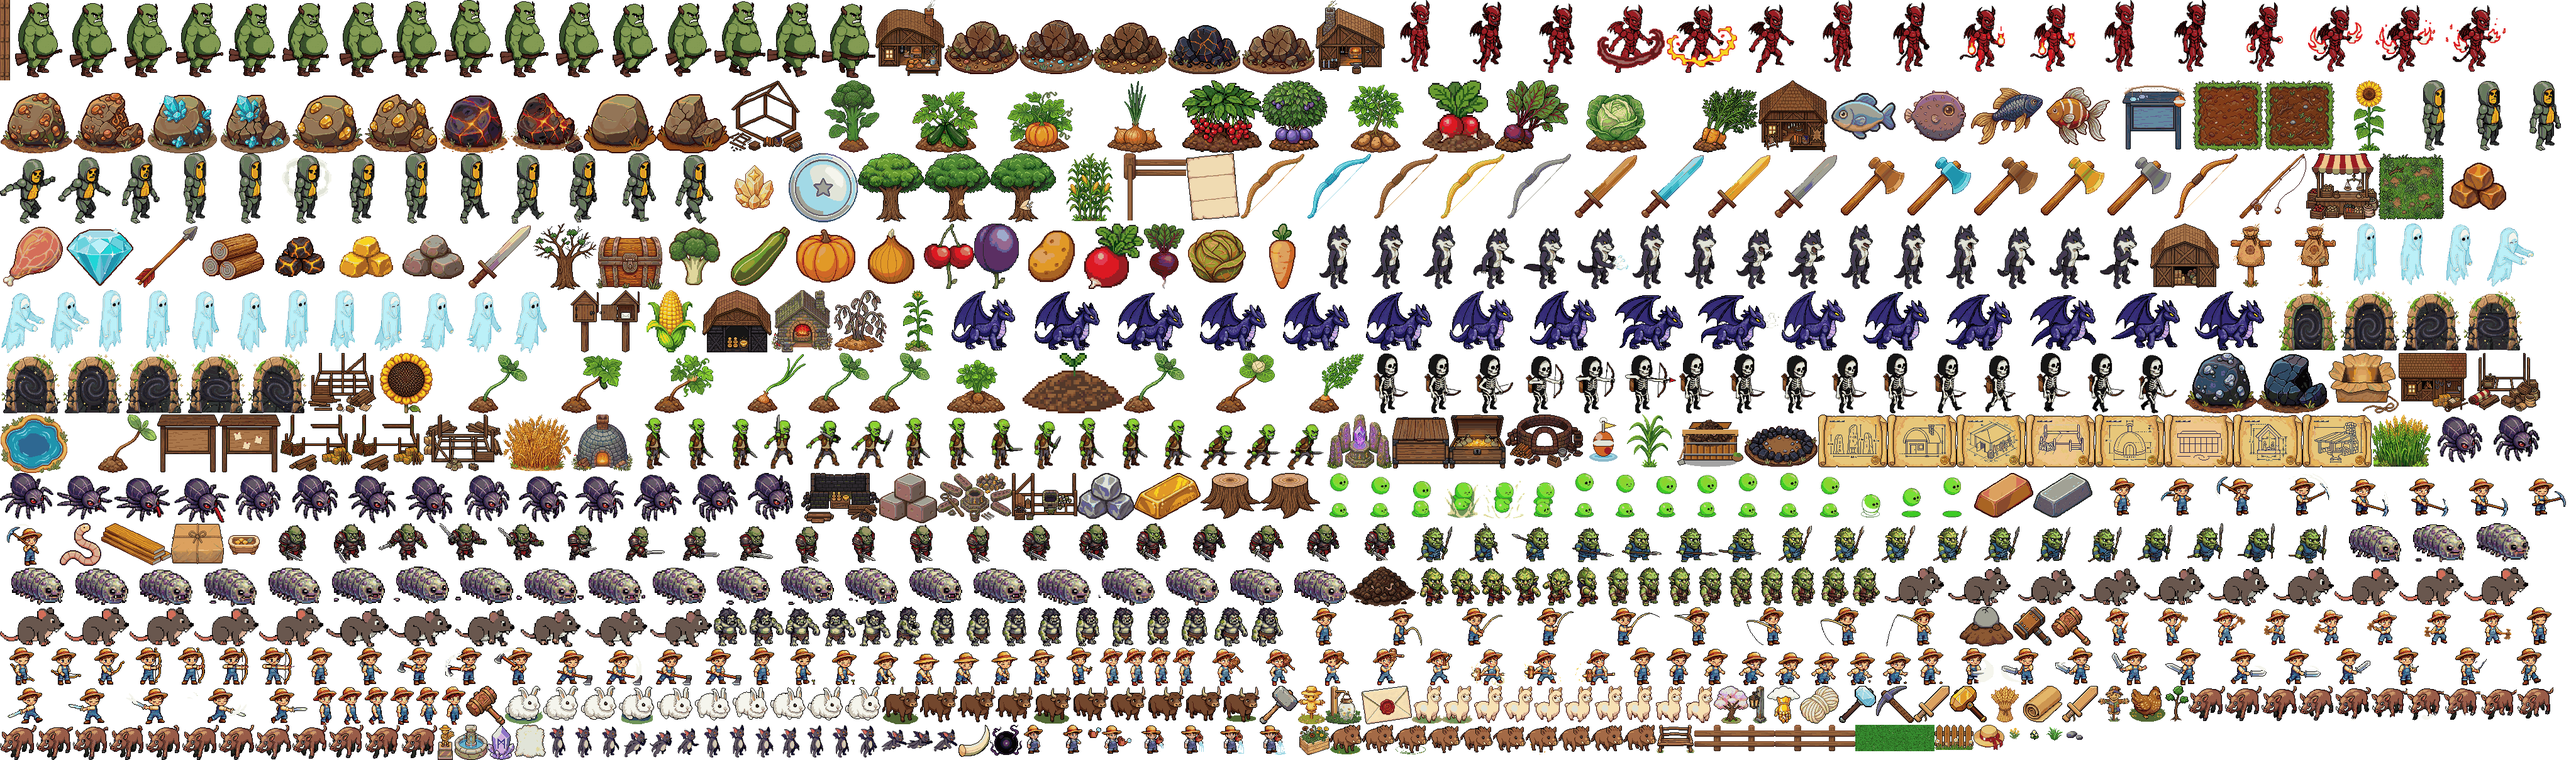
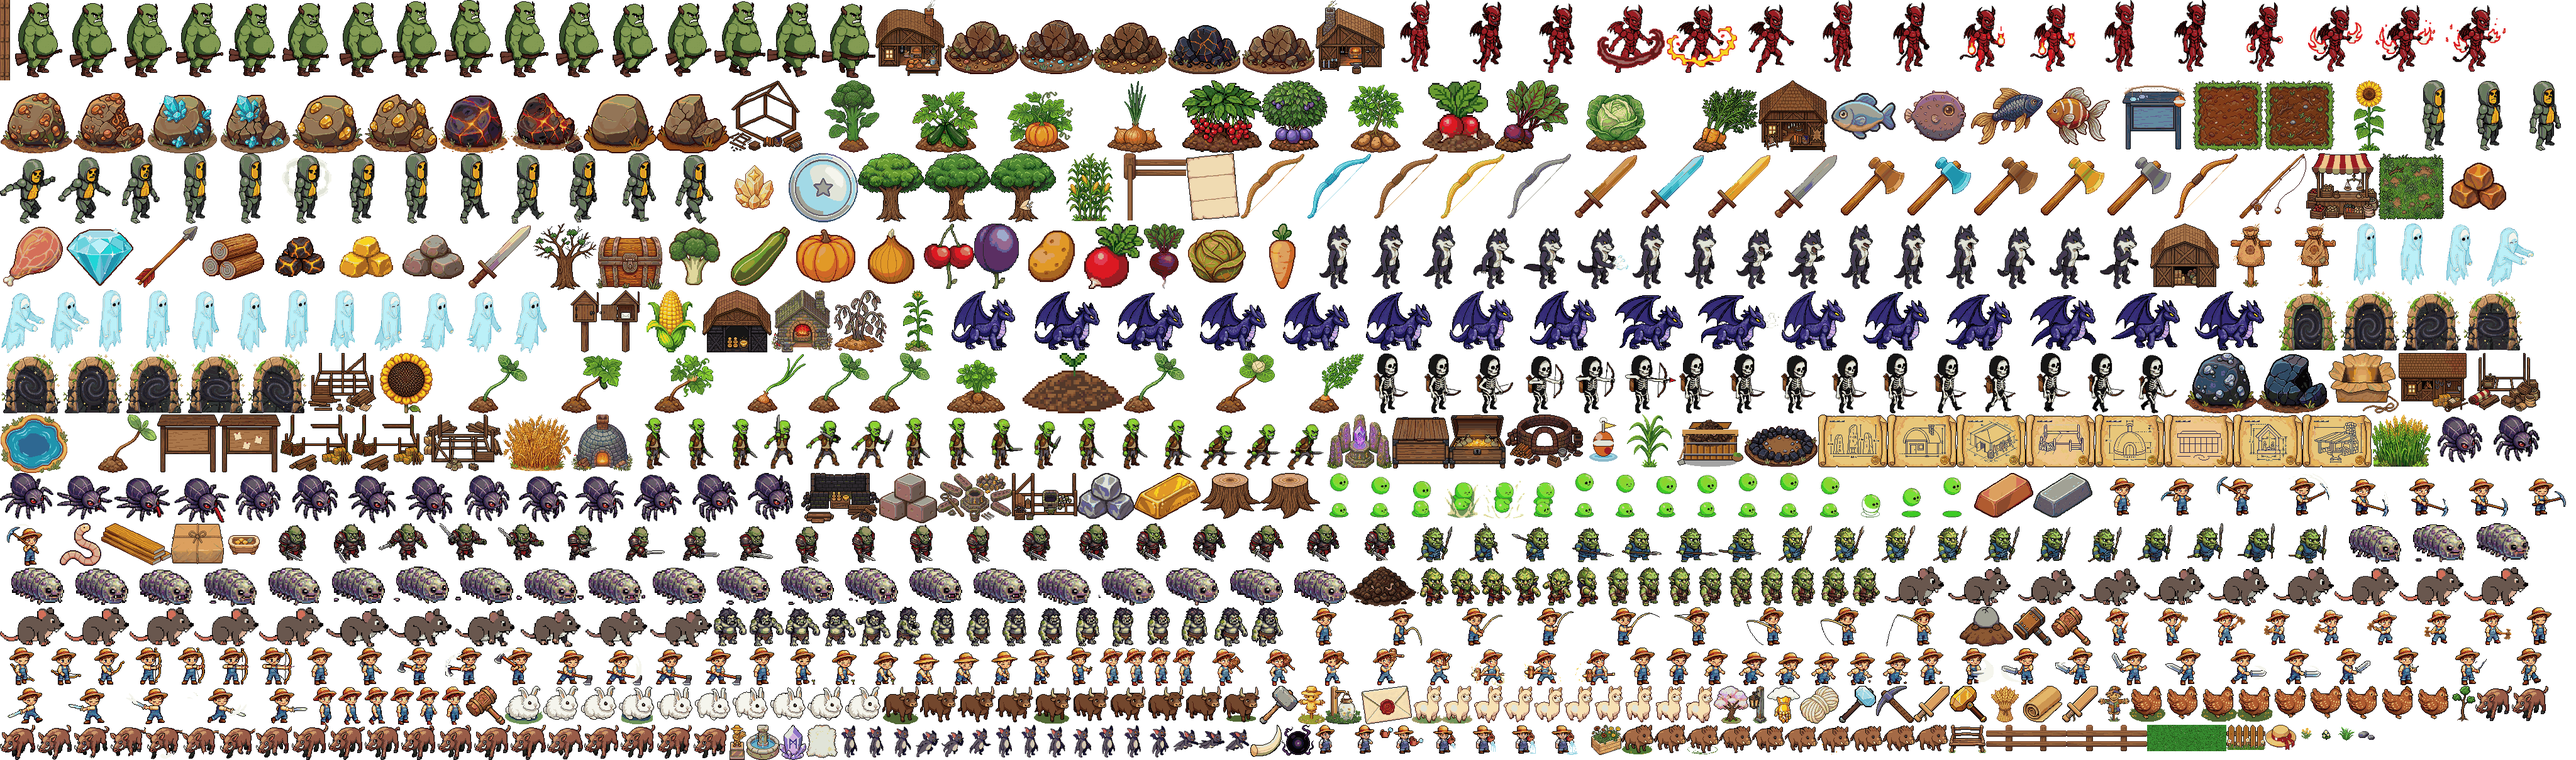
deploy lun 21/09/2026 15:39:23,93

Changed region(s): [[0.0, 0.8868, 1.0, 1.0]]

diff --git a/public/game/boot.js b/public/game/boot.js
@@ -142,14 +142,15 @@ class BootScene extends Phaser.Scene {
     // estado individual de hambre: pequeño comedero, no ligado a un cultivo concreto
     L.push(["animal_feed_marker", P + "animal_feed_marker.png?v=1"]);
     L.push(["pet_gallina", P + "pet_gallina.png"]);   // mascota "Pinta" del cofre de login (10/8)
+    for (let i = 0; i < 8; i++) L.push(["pet_gallina_walk_" + i, P + "pet_gallina_walk_" + i + ".png?v=1"]);
     return L;
   }
 
   preload() {
     // ATLAS: todos los sprites del mundo en 2 archivos (mucho más liviano para el server free).
     // Si el atlas no llega, ensureAll() baja los archivos sueltos como respaldo.
-    this.load.image("__atlas", "assets/atlas.png?v=53");
-    this.load.json("__atlasmap", "assets/atlas.json?v=53");
+    this.load.image("__atlas", "assets/atlas.png?v=54");
+    this.load.json("__atlasmap", "assets/atlas.json?v=54");
     // 2/9: la isla viaja en la PRIMERA pasada (es la única imagen que no cabe en el atlas:
     // 1190x854). Antes quedaba para los reintentos y era ella sola la que disparaba una
     // segunda vuelta de descarga en cada carga del juego.
@@ -289,6 +290,8 @@ class BootScene extends Phaser.Scene {
       const ks = Array.from({ length: 9 }, (_, i) => "animal_" + a + "_walk_" + i);
       if (has(ks)) this.anims.create({ key: "animal_" + a + "_walk", frames: ks.map(k => ({ key: k })), frameRate: 9, repeat: -1 });
     });
+    { const ks = Array.from({ length: 8 }, (_, i) => "pet_gallina_walk_" + i);
+      if (has(ks)) this.anims.create({ key: "pet_gallina_walk", frames: ks.map(k => ({ key: k })), frameRate: 10, repeat: -1 }); }
     // animaciones del orco y del troll (troll con idle de 4 frames)
     const mobs = { orc: [["idle", 3, 5, -1], ["walk", 6, 9, -1], ["atk", 6, 11, 0]],
                    troll: [["idle", 4, 4, -1], ["walk", 6, 8, -1], ["atk", 6, 10, 0]],

diff --git a/tools/test-carga-una-pasada.js b/tools/test-carga-una-pasada.js
@@ -62,6 +62,9 @@ console.log("\nLOS ANIMALES DEL ESTABLO CAMINAN");
   const cuadros = animales.flatMap(a => Array.from({ length: 9 }, (_, i) => "animal_" + a + "_walk_" + i));
   const faltan = cuadros.filter(k => !ATLAS[k]);
   ok("los 36 cuadros de caminata viajan en el atlas", faltan.length === 0, faltan.join(", "));
+  const pinta = Array.from({ length: 8 }, (_, i) => "pet_gallina_walk_" + i);
+  const faltanPinta = pinta.filter(k => !ATLAS[k]);
+  ok("los ocho cuadros de Pinta viajan en el atlas", faltanPinta.length === 0, faltanPinta.join(", "));
   const creadas = [];
   const bootDePrueba = Object.create(ctx.__B.prototype);
   bootDePrueba.textures = { exists: () => true };
@@ -69,9 +72,13 @@ console.log("\nLOS ANIMALES DEL ESTABLO CAMINAN");
   bootDePrueba.buildAnims();
   const anim = a => creadas.find(x => x.key === "animal_" + a + "_walk");
   ok("Boot crea una caminata de nueve cuadros por especie", animales.every(a => anim(a) && anim(a).frames.length === 9));
+  const animaPinta = creadas.find(x => x.key === "pet_gallina_walk");
+  ok("Boot crea la caminata limpia de ocho cuadros de Pinta", !!animaPinta && animaPinta.frames.length === 8);
   ok("la granja usa Sprite y alterna caminar / quieto", /this\.add\.sprite\(x, y, key\)/.test(FARM) &&
     /const aniCaminar = "animal_" \+ a\.k \+ "_walk";/.test(FARM) &&
     /a\.spr\.play\(aniCaminar\)/.test(FARM) && /a\.spr\.setTexture\("animal_" \+ a\.k\)/.test(FARM));
+  ok("Pinta también alterna caminar / quieta", /this\.add\.sprite\(pt\.x, pt\.y, def\.sprite\)/.test(FARM) &&
+    /m\.spr\.play\("pet_gallina_walk"\)/.test(FARM) && /m\.spr\.setTexture\("pet_gallina"\)/.test(FARM));
 }
 
 console.log("\nEL BESTIARIO TAMBIÉN (la fase «Cargando criaturas…» no pide nada)");

diff --git a/public/game/farm.js b/public/game/farm.js
@@ -3034,7 +3034,7 @@ class FarmScene extends Phaser.Scene {
     if (!def || this.mascota) return;
     if (!this.textures.exists(def.sprite)) return;   // todavía no cargó el arte: no pasa nada
     const pt = this.puntoAnimal() || { x: GF.ORIG_X + GF.WORLD_W / 2, y: GF.ORIG_Y + GF.WORLD_H / 2 };
-    const spr = this.add.image(pt.x, pt.y, def.sprite).setOrigin(0.5, 1);
+    const spr = this.add.sprite(pt.x, pt.y, def.sprite).setOrigin(0.5, 1);
     spr.setScale((GF.TILE * 0.52) / spr.width);       // más chica que los animales del Establo
     this.mascota = { k: quiero, spr, tx: pt.x, ty: pt.y, esperaHasta: 0, bob: Math.random() * 6.28 };
   }
@@ -3047,13 +3047,14 @@ class FarmScene extends Phaser.Scene {
     }
     const dx = m.tx - m.spr.x, dy = m.ty - m.spr.y, d = Math.hypot(dx, dy);
     if (d > 3) {
+      if (this.anims.exists("pet_gallina_walk") && (m.spr.anims.currentAnim?.key !== "pet_gallina_walk" || !m.spr.anims.isPlaying)) m.spr.play("pet_gallina_walk");
       const v = Math.min(d, 24 * dt);
       m.spr.x += dx / d * v; m.spr.y += dy / d * v;
       if (Math.abs(dx) > 1) m.spr.setFlipX(dx < 0);
       m.bob += dt * 9;
       const s = Math.abs(m.spr.scaleX);
       m.spr.setScale(m.spr.scaleX, s * (1 + Math.sin(m.bob) * 0.06));
-    }
+    } else if (m.spr.anims.isPlaying) { m.spr.anims.stop(); m.spr.setTexture("pet_gallina"); }
     m.spr.setDepth(m.spr.y);
   }
   tickAnimales(dt, t) {

diff --git a/public/index.html b/public/index.html
@@ -1924,7 +1924,7 @@
     // 15/8: VERSIÓN DE BUILD — rompe la caché del navegador en cada deploy (sin esto, el
     // jugador seguía corriendo el state.js viejo aunque el servidor tuviera el nuevo).
     // deploy.bat la actualiza sola (busca GF_BUILD y pone la fecha/hora del deploy).
-    const GF_BUILD = "20260921-153320";
+    const GF_BUILD = "20260921-153923";
     const files = ["game/config.js","game/nav.js","game/audio.js","game/state.js","game/save.js","game/ui.js","game/boot.js",
                    "game/farm.js","game/forest.js","game/plaza.js","game/main.js","game/update.js"];
     /* 24/8 — SE BAJAN TODOS A LA VEZ, SE EJECUTAN EN FILA (dirección: « sigue tardando en

diff --git a/tools/build-atlas.py b/tools/build-atlas.py
@@ -31,7 +31,7 @@ BOOT = os.path.join(RAIZ, "public", "game", "boot.js")
 
 # Los iconos de recursos, cultivos, peces y monedas también van al atlas: el juego los
 # usa para el "premio" que sale volando cuando talás, picás o cosechás.
-EXTRA = ["res_", "crop_", "cropm_", "cropg_", "fish_", "coin_", "animal_", "deco_", "build_", "plano_", "rock_buried", "hero_axe_", "hero_mace_"]   # build_: obras · plano_: blueprints (12/8) · ataques nuevos (21/9)
+EXTRA = ["res_", "crop_", "cropm_", "cropg_", "fish_", "coin_", "animal_", "pet_gallina_walk_", "deco_", "build_", "plano_", "rock_buried", "hero_axe_", "hero_mace_"]   # build_: obras · plano_: blueprints (12/8) · ataques nuevos (21/9)
 # 17/8: cropm_/cropg_ (planta a medias y crecida) SE HABÍAN QUEDADO AFUERA. "crop_" no los
 # atrapa, así que cada cultivo nuevo entraba con su icono al atlas pero sus dos etapas de
 # crecimiento se bajaban sueltas. Con 3 cultivos nuevos eran 6 pedidos extra + la fase de

diff --git a/TODO.md b/TODO.md
@@ -292,7 +292,7 @@ Están desarrolladas en el GDD §15.0, con sus números medidos. Aquí solo el t
 - [ ] **Árboles, piedras y parcelas**: siguen siendo el set viejo con el color calmado.
 - [x] **Piedra vs hierro**: veta de hierro fría, oscura y con estados propios; piedra queda cálida y redondeada.
 - [x] **Animaciones de ataque propias por arma**: espada y arco conservan las suyas; hacha y mazo suman ocho frames propios cada una.
-- [x] **Animales del Establo**: sprites reales en Establo y Álbum; alpaca, conejo, toro y jabalí caminan con nueve cuadros propios.
+- [x] **Animales del Establo**: sprites reales en Establo y Álbum; alpaca, conejo, toro y jabalí caminan con nueve cuadros propios. Pinta queda animada como mascota.
 
 ## ⚫ Ofrecido y sin pedir
 
